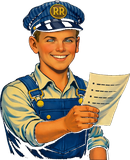
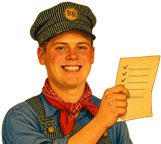
v0.9.853: header mascot in the RIGHT place - img/conductor-header.png replaced with new art (?v=203); remove stray app/conductor-header.png from v852; cache bump mca-v864
Claude-Session: https://claude.ai/code/session_01PwWu5K5uY8QeDTViwPaeBu

diff --git a/app/index.html b/app/index.html
@@ -20,9 +20,9 @@
   <link rel="manifest" href="manifest.json">
 <meta name="viewport" content="width=device-width, initial-scale=1.0, viewport-fit=cover">
 <title>The Rail Roster — Postwar Train Collection Tracker</title>
-<link rel="stylesheet" href="./app.css?v=852">
-<link rel="stylesheet" href="./tutorial.css?v=852">
-<link rel="stylesheet" href="./vault-styles.css?v=852">
+<link rel="stylesheet" href="./app.css?v=853">
+<link rel="stylesheet" href="./tutorial.css?v=853">
+<link rel="stylesheet" href="./vault-styles.css?v=853">
   <link rel="stylesheet" href="https://cdnjs.cloudflare.com/ajax/libs/cropperjs/1.6.1/cropper.min.css">
 </head>
 <body>
@@ -688,66 +688,66 @@ document.addEventListener('touchmove', function(){}, {passive: true});
 <!-- identify-modal is built dynamically by wizard.js -->
 </div>
 
-<script src="./config.js?v=852"></script>
-<script src="./cott-anchors.js?v=852"></script>
-<script src="./type-groups.js?v=852"></script>
-<script src="./back-stack.js?v=852"></script>
-<script src="./road-typeahead.js?v=852"></script>
-<script src="./a11y-config.js?v=852"></script>
-<script src="./a11y.js?v=852"></script>
-<script src="./wizard-utils.js?v=852"></script>
-<script src="./app.js?v=852"></script>
-<script src="./sheets.js?v=852"></script>
-<script src="./drive.js?v=852"></script>
-<script src="./backup.js?v=852"></script>
-<script src="./browse.js?v=852"></script>
-<script src="./dashboard.js?v=852"></script>
-<script src="./sheet-builder.js?v=852"></script>
+<script src="./config.js?v=853"></script>
+<script src="./cott-anchors.js?v=853"></script>
+<script src="./type-groups.js?v=853"></script>
+<script src="./back-stack.js?v=853"></script>
+<script src="./road-typeahead.js?v=853"></script>
+<script src="./a11y-config.js?v=853"></script>
+<script src="./a11y.js?v=853"></script>
+<script src="./wizard-utils.js?v=853"></script>
+<script src="./app.js?v=853"></script>
+<script src="./sheets.js?v=853"></script>
+<script src="./drive.js?v=853"></script>
+<script src="./backup.js?v=853"></script>
+<script src="./browse.js?v=853"></script>
+<script src="./dashboard.js?v=853"></script>
+<script src="./sheet-builder.js?v=853"></script>
 <script src="https://accounts.google.com/gsi/client" async defer></script>
-<script src="./wizard-pdlookup.js?v=852"></script>
-<script src="./wizard-suggestions.js?v=852"></script>
-<script src="./wizard-steps.js?v=852"></script>
-<script src="./wizard.js?v=852"></script>
-<script src="./wizard-photos.js?v=852"></script>
-<script src="./photo-crop.js?v=852"></script>
-<script src="./variation-picker.js?v=852"></script>
-<script src="./wizard-pickers.js?v=852"></script>
-<script src="./wizard-handlers.js?v=852"></script>
-<script src="./wizard-quickentry.js?v=852"></script>
-<script src="./wizard-save.js?v=852"></script>
-<script src="./app-misc.js?v=852"></script>
-<script src="./app-auth.js?v=852"></script>
-<script src="./app-setup.js?v=852"></script>
-<script src="./app-data.js?v=852"></script>
-<script src="./app-pages.js?v=852"></script>
-<script src="./app-collection.js?v=852"></script>
-<script src="./barcode.js?v=852"></script>
-<script src="./tutorial.js?v=852"></script>
-<script src="./tutorial-gifs-config.js?v=852"></script>
-<script src="./migration-config.js?v=852"></script>
-<script src="./migration-ui.js?v=852"></script>
-<script src="./onboarding-config.js?v=852"></script>
-<script src="./gmail-help.js?v=852"></script>
-<script src="./onboarding.js?v=852"></script>
-<script src="./vault.js?v=852"></script>
-<script src="./research.js?v=852"></script>
-<script src="./ai-id.js?v=852"></script>
-<script src="./era-badges-config.js?v=852"></script>
-<script src="./era-badges.js?v=852"></script>
-<script src="./catalog-display-config.js?v=852"></script>
-<script src="./non-item-detail-config.js?v=852"></script>
-<script src="./item-search-filters-config.js?v=852"></script>
-<script src="./insurance-config.js?v=852"></script>
-<script src="./reports.js?v=852"></script>
-<script src="./report-export.js?v=852"></script>
-<script src="./report-library.js?v=852"></script>
-<script src="./prefs.js?v=852"></script>
-<script src="./tools.js?v=852"></script>
-    <script src="./contacts.js?v=852"></script>  <!-- contacts hook -->
+<script src="./wizard-pdlookup.js?v=853"></script>
+<script src="./wizard-suggestions.js?v=853"></script>
+<script src="./wizard-steps.js?v=853"></script>
+<script src="./wizard.js?v=853"></script>
+<script src="./wizard-photos.js?v=853"></script>
+<script src="./photo-crop.js?v=853"></script>
+<script src="./variation-picker.js?v=853"></script>
+<script src="./wizard-pickers.js?v=853"></script>
+<script src="./wizard-handlers.js?v=853"></script>
+<script src="./wizard-quickentry.js?v=853"></script>
+<script src="./wizard-save.js?v=853"></script>
+<script src="./app-misc.js?v=853"></script>
+<script src="./app-auth.js?v=853"></script>
+<script src="./app-setup.js?v=853"></script>
+<script src="./app-data.js?v=853"></script>
+<script src="./app-pages.js?v=853"></script>
+<script src="./app-collection.js?v=853"></script>
+<script src="./barcode.js?v=853"></script>
+<script src="./tutorial.js?v=853"></script>
+<script src="./tutorial-gifs-config.js?v=853"></script>
+<script src="./migration-config.js?v=853"></script>
+<script src="./migration-ui.js?v=853"></script>
+<script src="./onboarding-config.js?v=853"></script>
+<script src="./gmail-help.js?v=853"></script>
+<script src="./onboarding.js?v=853"></script>
+<script src="./vault.js?v=853"></script>
+<script src="./research.js?v=853"></script>
+<script src="./ai-id.js?v=853"></script>
+<script src="./era-badges-config.js?v=853"></script>
+<script src="./era-badges.js?v=853"></script>
+<script src="./catalog-display-config.js?v=853"></script>
+<script src="./non-item-detail-config.js?v=853"></script>
+<script src="./item-search-filters-config.js?v=853"></script>
+<script src="./insurance-config.js?v=853"></script>
+<script src="./reports.js?v=853"></script>
+<script src="./report-export.js?v=853"></script>
+<script src="./report-library.js?v=853"></script>
+<script src="./prefs.js?v=853"></script>
+<script src="./tools.js?v=853"></script>
+    <script src="./contacts.js?v=853"></script>  <!-- contacts hook -->
 <script src="https://cdnjs.cloudflare.com/ajax/libs/jspdf/2.5.1/jspdf.umd.min.js"></script>
 <script src="https://cdnjs.cloudflare.com/ajax/libs/cropperjs/1.6.1/cropper.min.js"></script>
-<script src="./share.js?v=852"></script>
-<script src="./sell.js?v=852"></script>
+<script src="./share.js?v=853"></script>
+<script src="./sell.js?v=853"></script>
 
 <script>
 // ── PWA Service Worker Registration (auto-update) ───────────────

diff --git a/app/app-setup.js b/app/app-setup.js
@@ -102,7 +102,7 @@ function _buildAppShell() {
   header.className = 'header';
   header.innerHTML =
     '<div class="header-logo" style="display:flex;align-items:flex-end;gap:0.6rem;align-self:stretch;height:100%">' +
-      '<img src="img/conductor-header.png?v=202" alt="" aria-hidden="true" style="height:48px;width:auto;flex-shrink:0;display:block">' +
+      '<img src="img/conductor-header.png?v=203" alt="" aria-hidden="true" style="height:48px;width:auto;flex-shrink:0;display:block">' +
       '<div style="font-family:var(--font-head);font-size:1.8rem;font-weight:700;color:var(--cream);letter-spacing:0.06em;text-transform:uppercase;line-height:1;padding-bottom:6px">The <span style="color:var(--accent)">Rail</span> Roster</div>' +
     '</div>' +
     '<div class="header-right" style="position:relative">' +

diff --git a/app/config.js b/app/config.js
@@ -3,7 +3,7 @@
 // If more than one file needs a constant, it goes HERE.
 // ═══════════════════════════════════════════════════════════════
 
-const APP_VERSION = 'v0.9.852';
+const APP_VERSION = 'v0.9.853';
 
 // v0.9.699 (Brad's phantom-touch desktop): ONE authoritative "is this actually
 // a phone/tablet?" flag. Touch detection LIES on Windows PCs (pen/driver

diff --git a/app/sw.js b/app/sw.js
@@ -4,7 +4,7 @@
 // fetches fresh copies in the background for next load.
 // NEVER caches Google API, OAuth, or Sheets calls.
 
-const CACHE_NAME = 'mca-v863';
+const CACHE_NAME = 'mca-v864';
 
 const SHELL_FILES = [
   './index.html',
